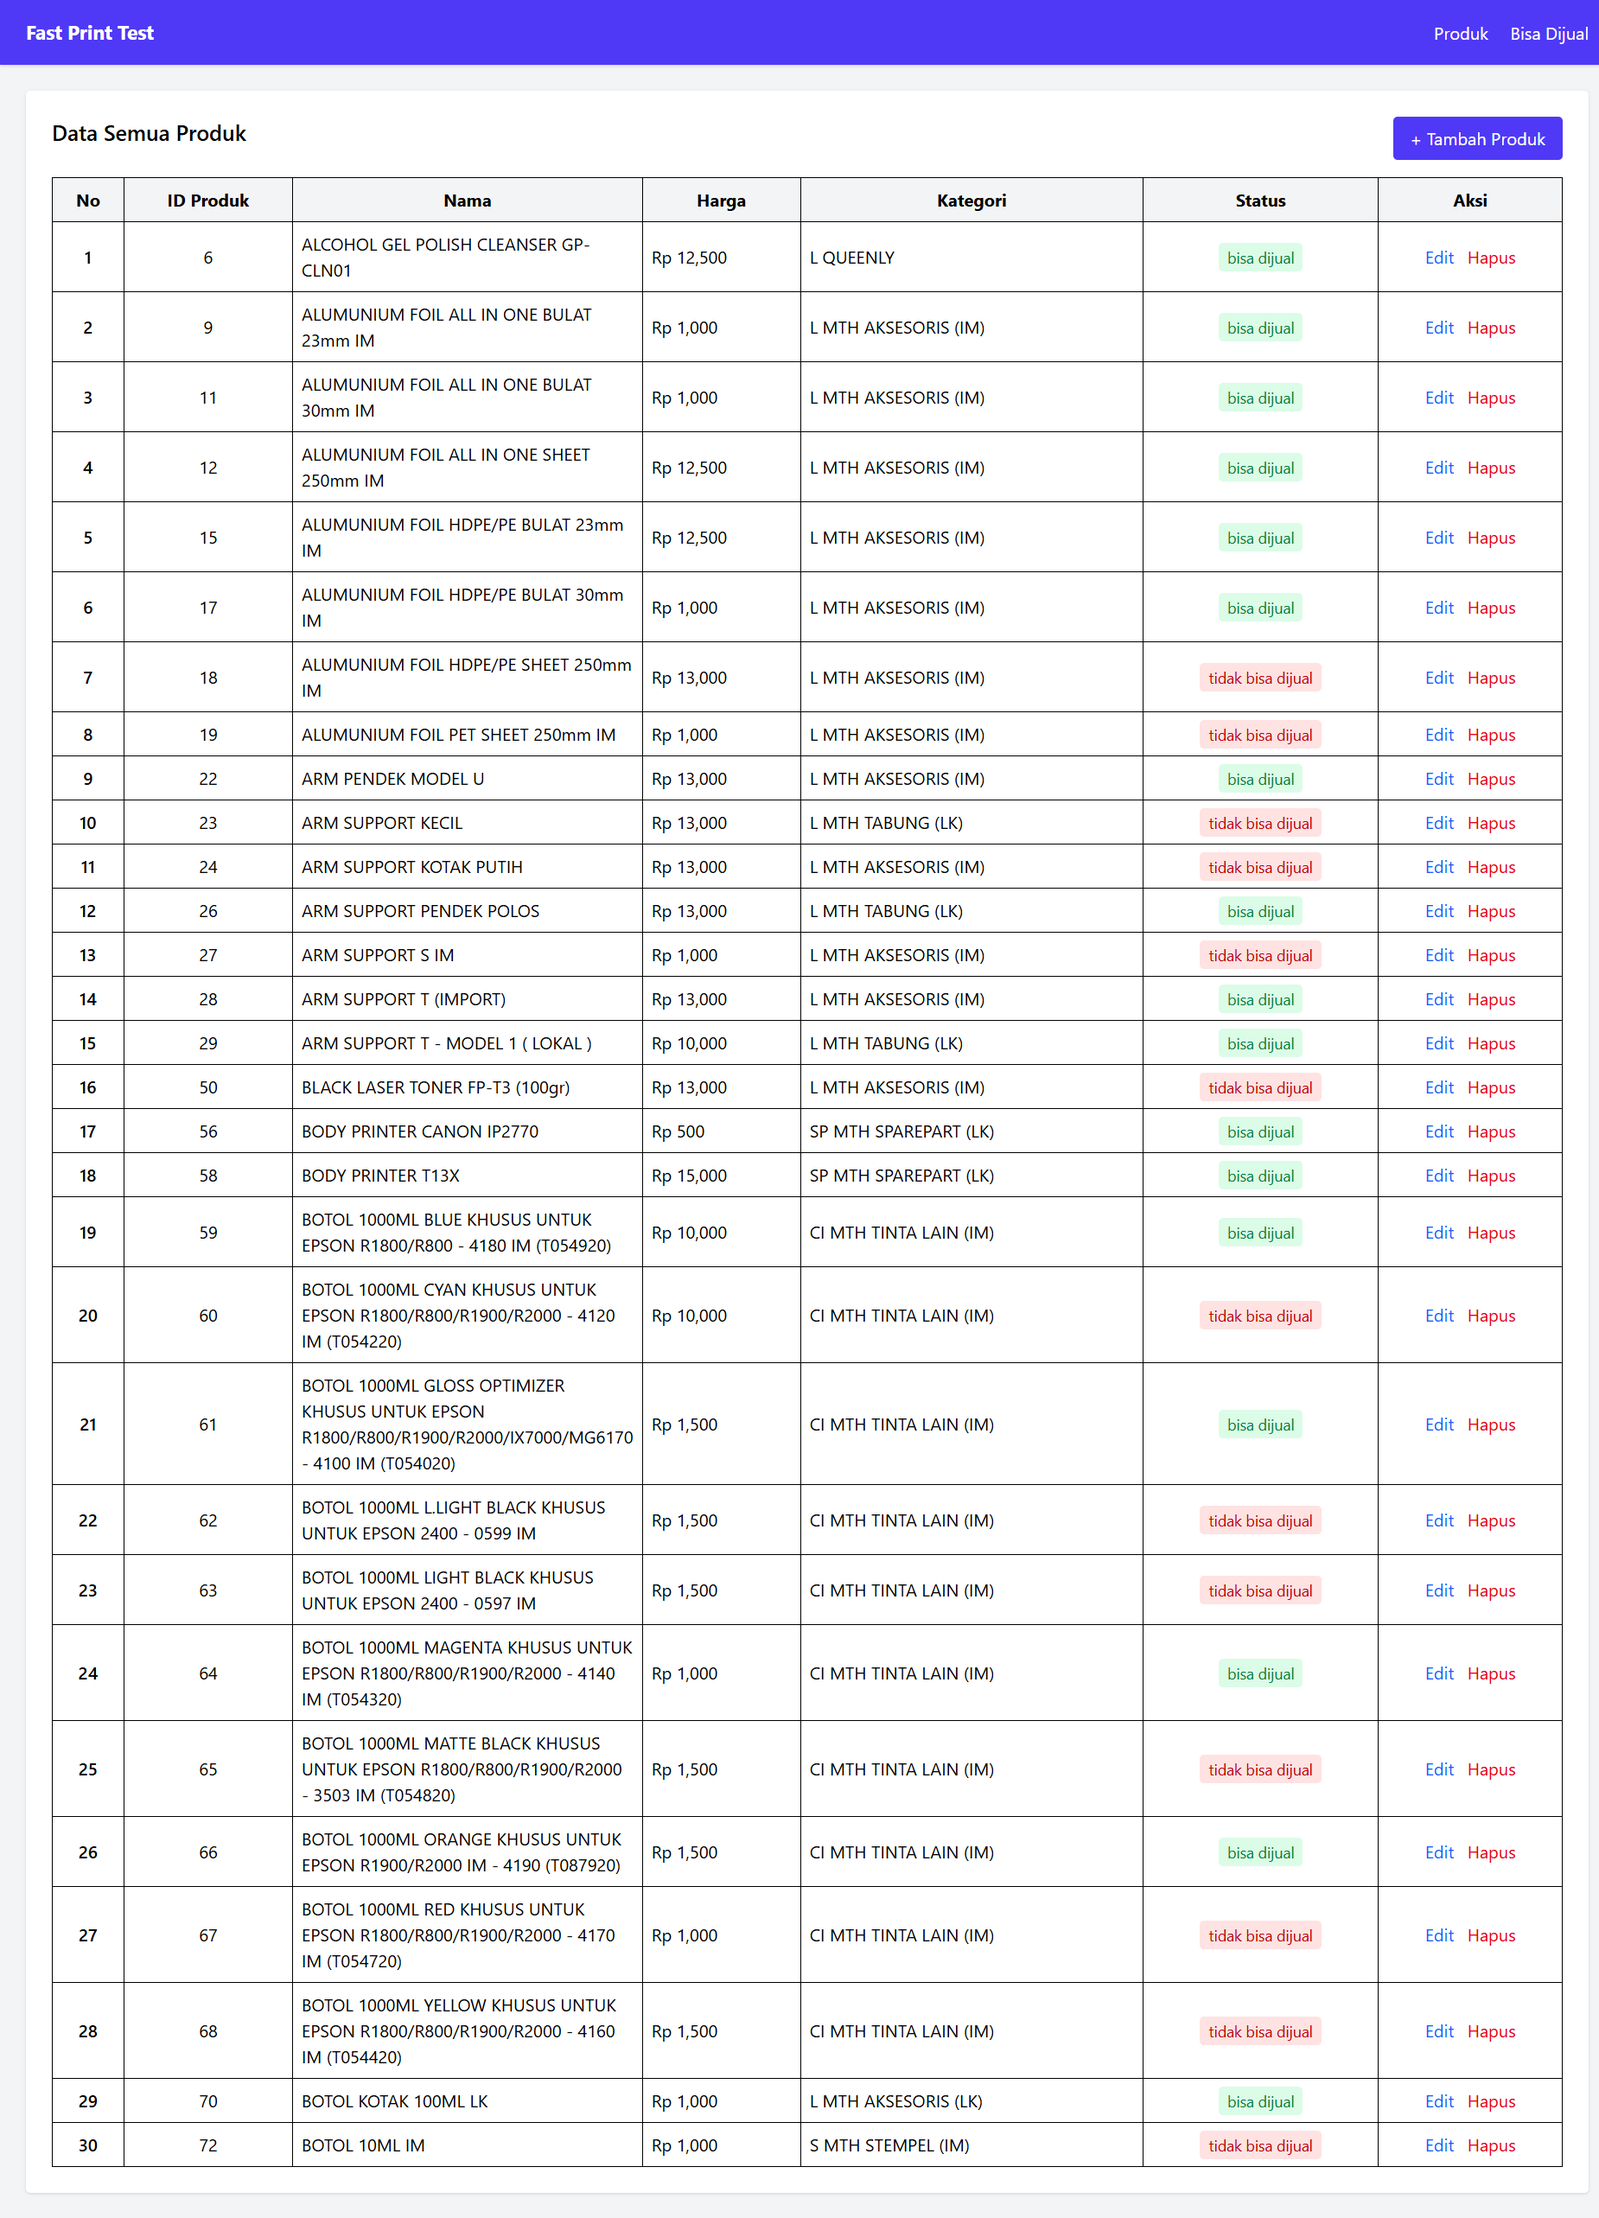
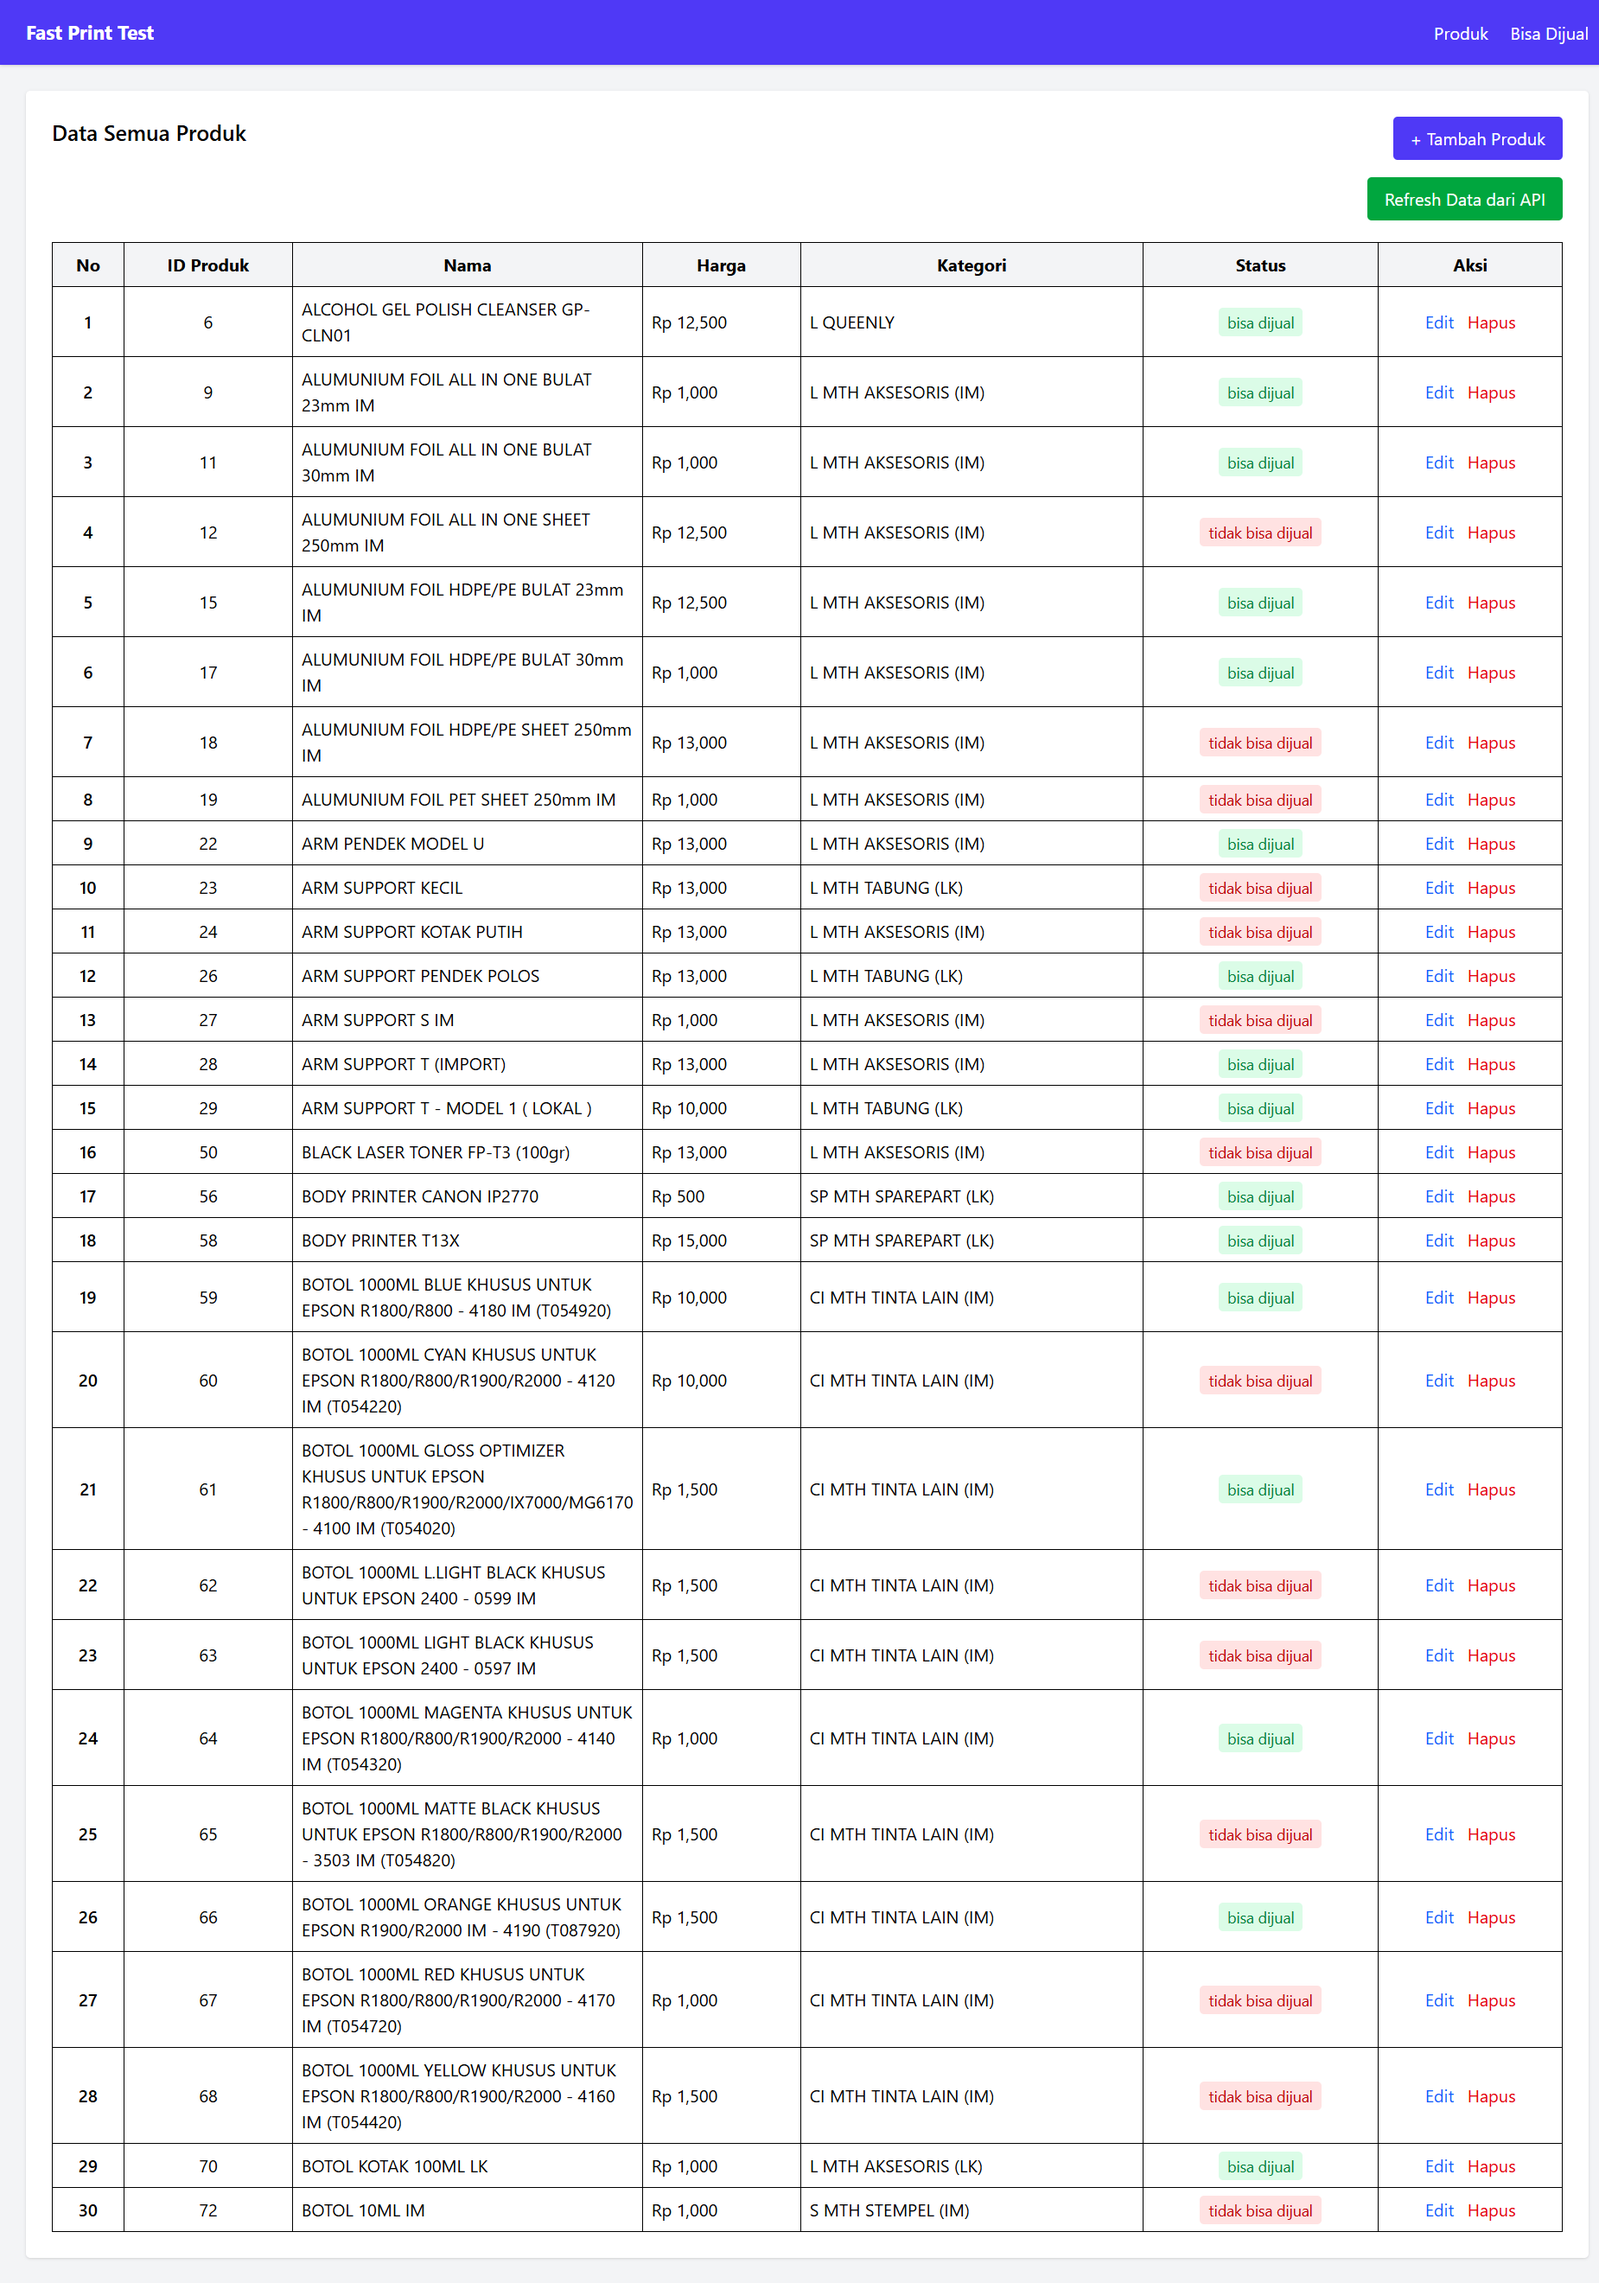
Update Readme

diff --git a/README.md b/README.md
@@ -30,7 +30,7 @@ Aplikasi dibangun menggunakan **Laravel 12**, **MySQL**, dan **Tailwind CSS** de
 
 ## 🔄 Alur Aplikasi
 
-1. Aplikasi mengambil data produk dari API Fast Print menggunakan method POST.
+1. Aplikasi mengambil data produk dari API Fast Print menggunakan method POST dengan klik tombol refresh pada halaman produk.
 2. Data produk disimpan ke database dengan struktur terpisah antara produk, kategori, dan status.
 3. Data produk ditampilkan dalam bentuk tabel.
 4. Pengguna dapat:
@@ -143,6 +143,12 @@ npm install
 npm run build
 ```
 
+kalau ingin node selalu aktif, maka jalankan
+
+```bash
+npm run dev
+```
+
 ### 7. Import Data Produk dari API
 
 Jalankan server Laravel:
@@ -154,12 +160,14 @@ php artisan serve
 Lalu akses di browser:
 
 ```
-http://127.0.0.1:8000/import-produk
+http://127.0.0.1:8000/produk
 ```
+
+Klik tombol refresh data. Tombol itu akan mengambil data dari API dan memastikan halaman tidak berpindah
 
 Jika berhasil, akan muncul pesan:
 
-`Import produk berhasil`
+`Data produk berhasil diimpor dari API.`
 
 Jika gagal mengambil data dari API, pastikan **username** dan **password** di controller yang bernama `ProdukImportController.php` sudah benar
 
